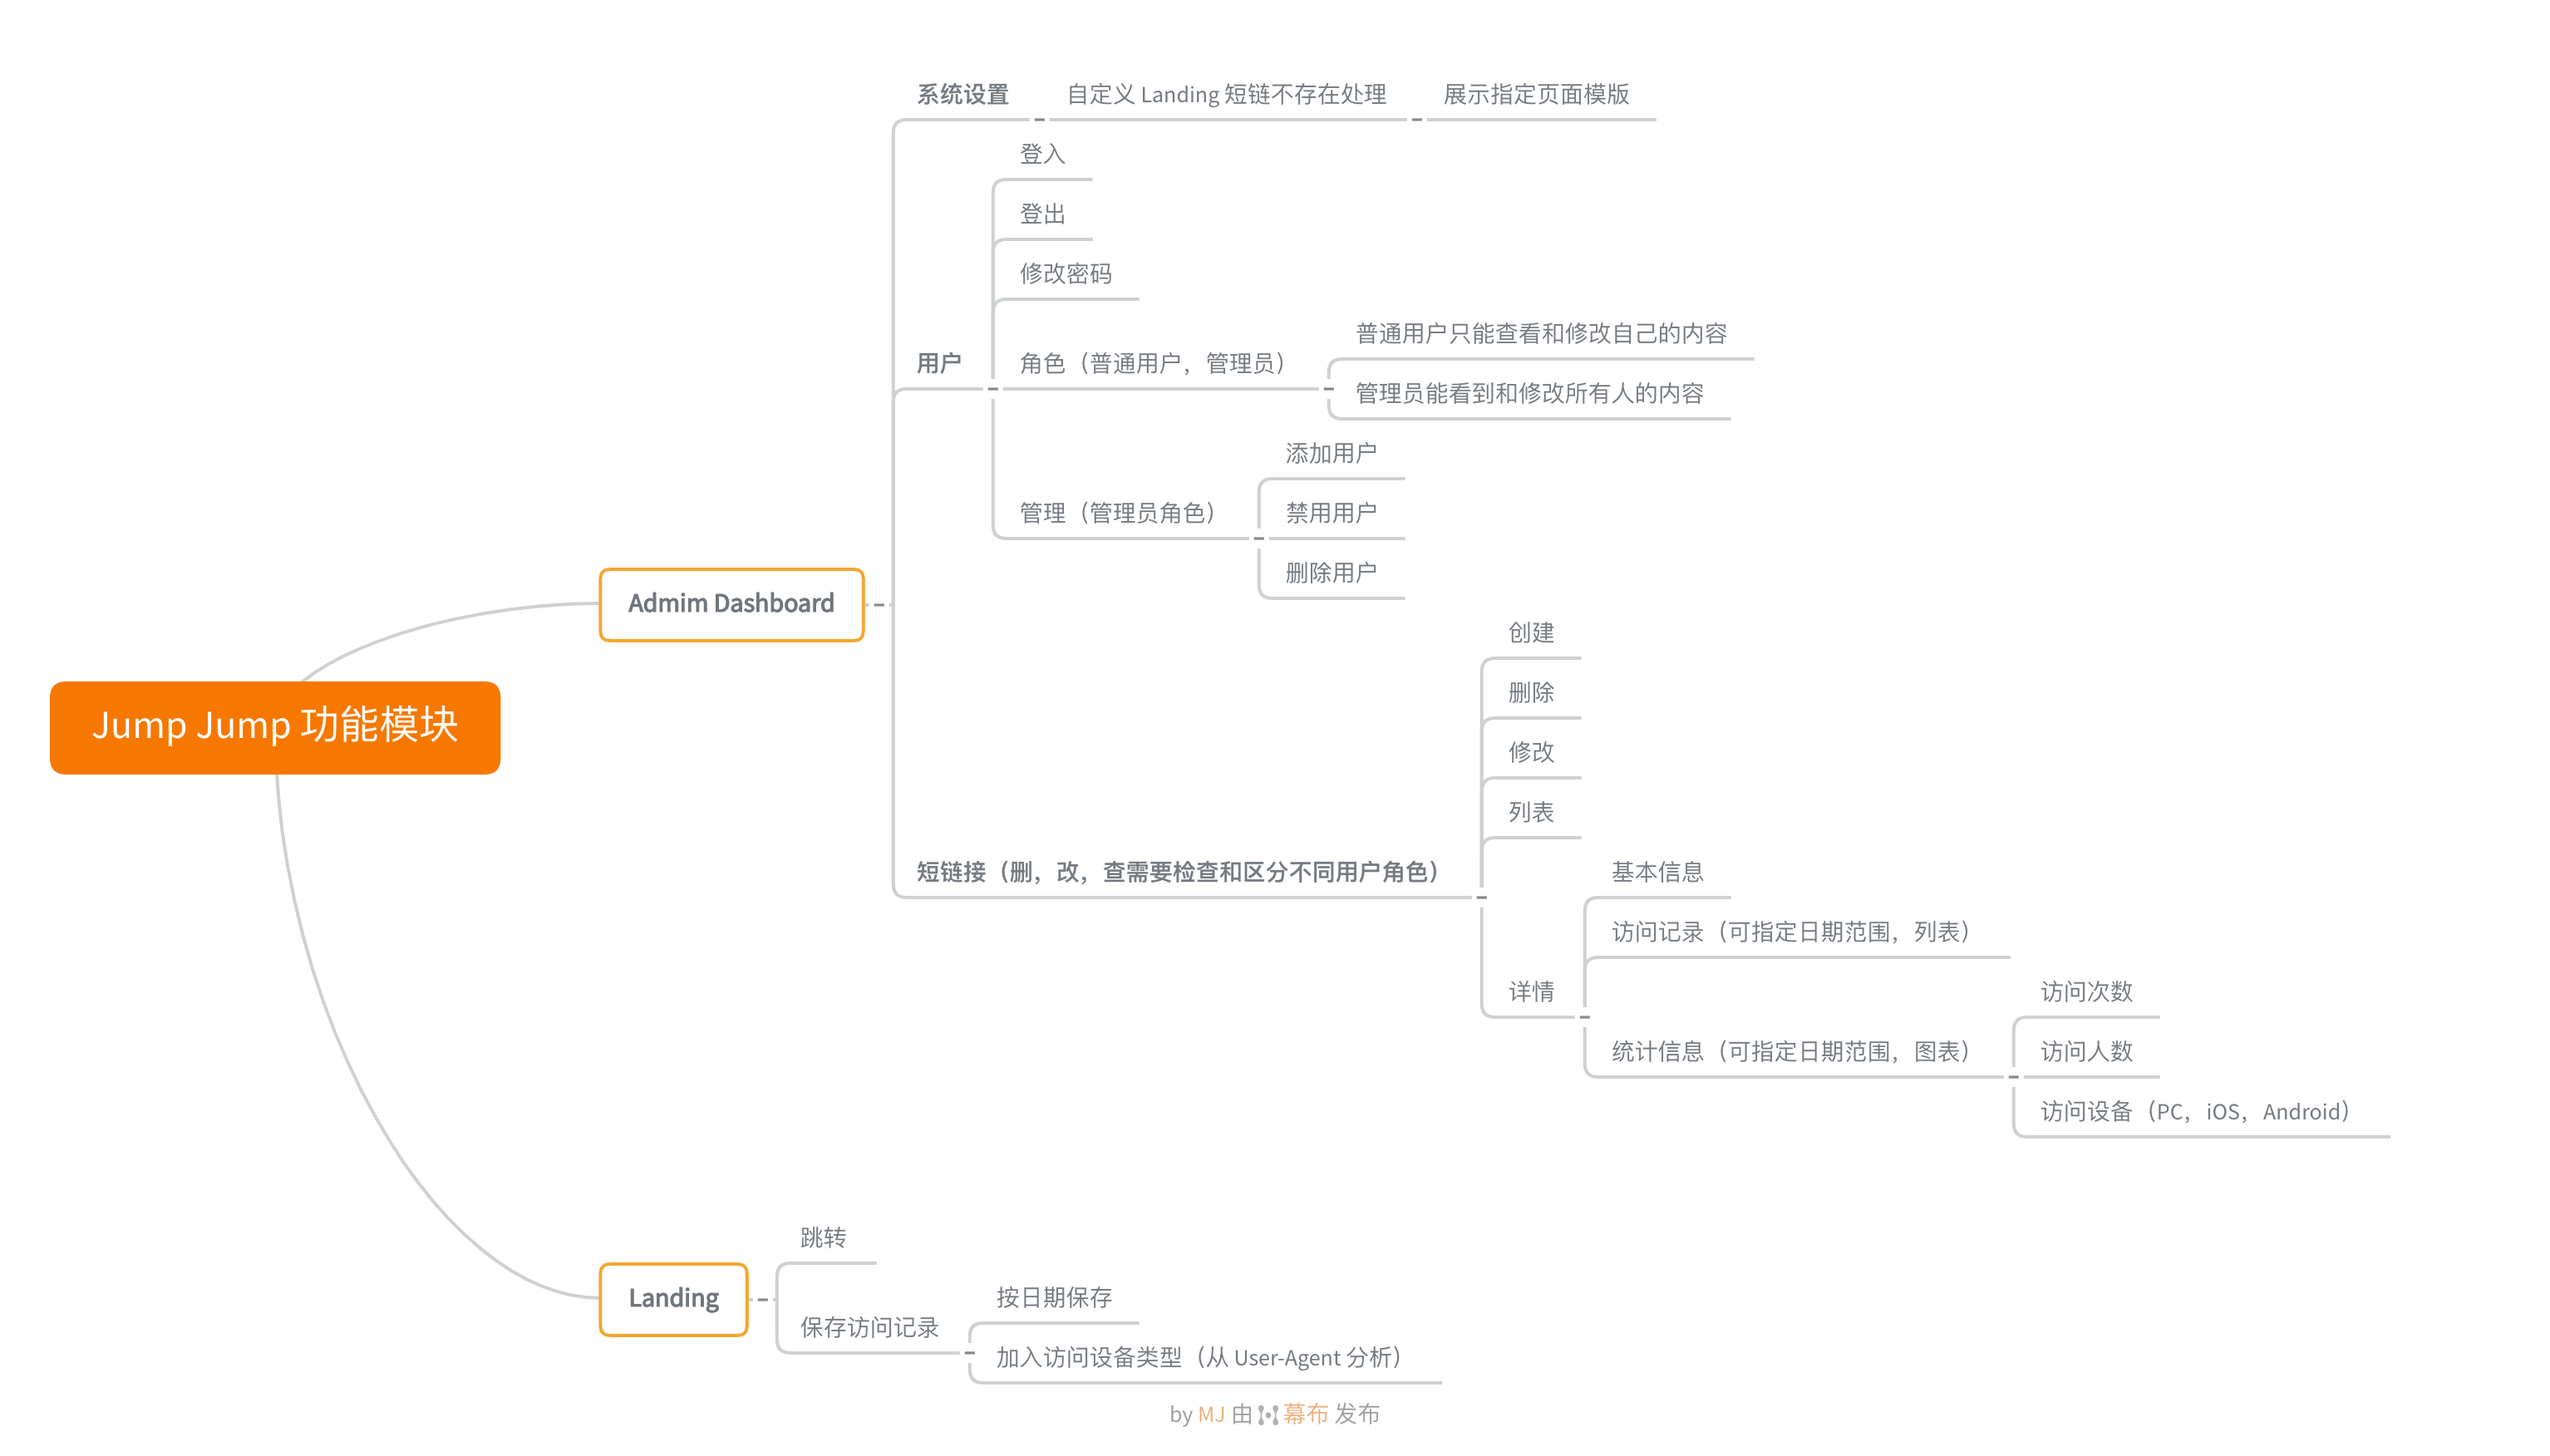
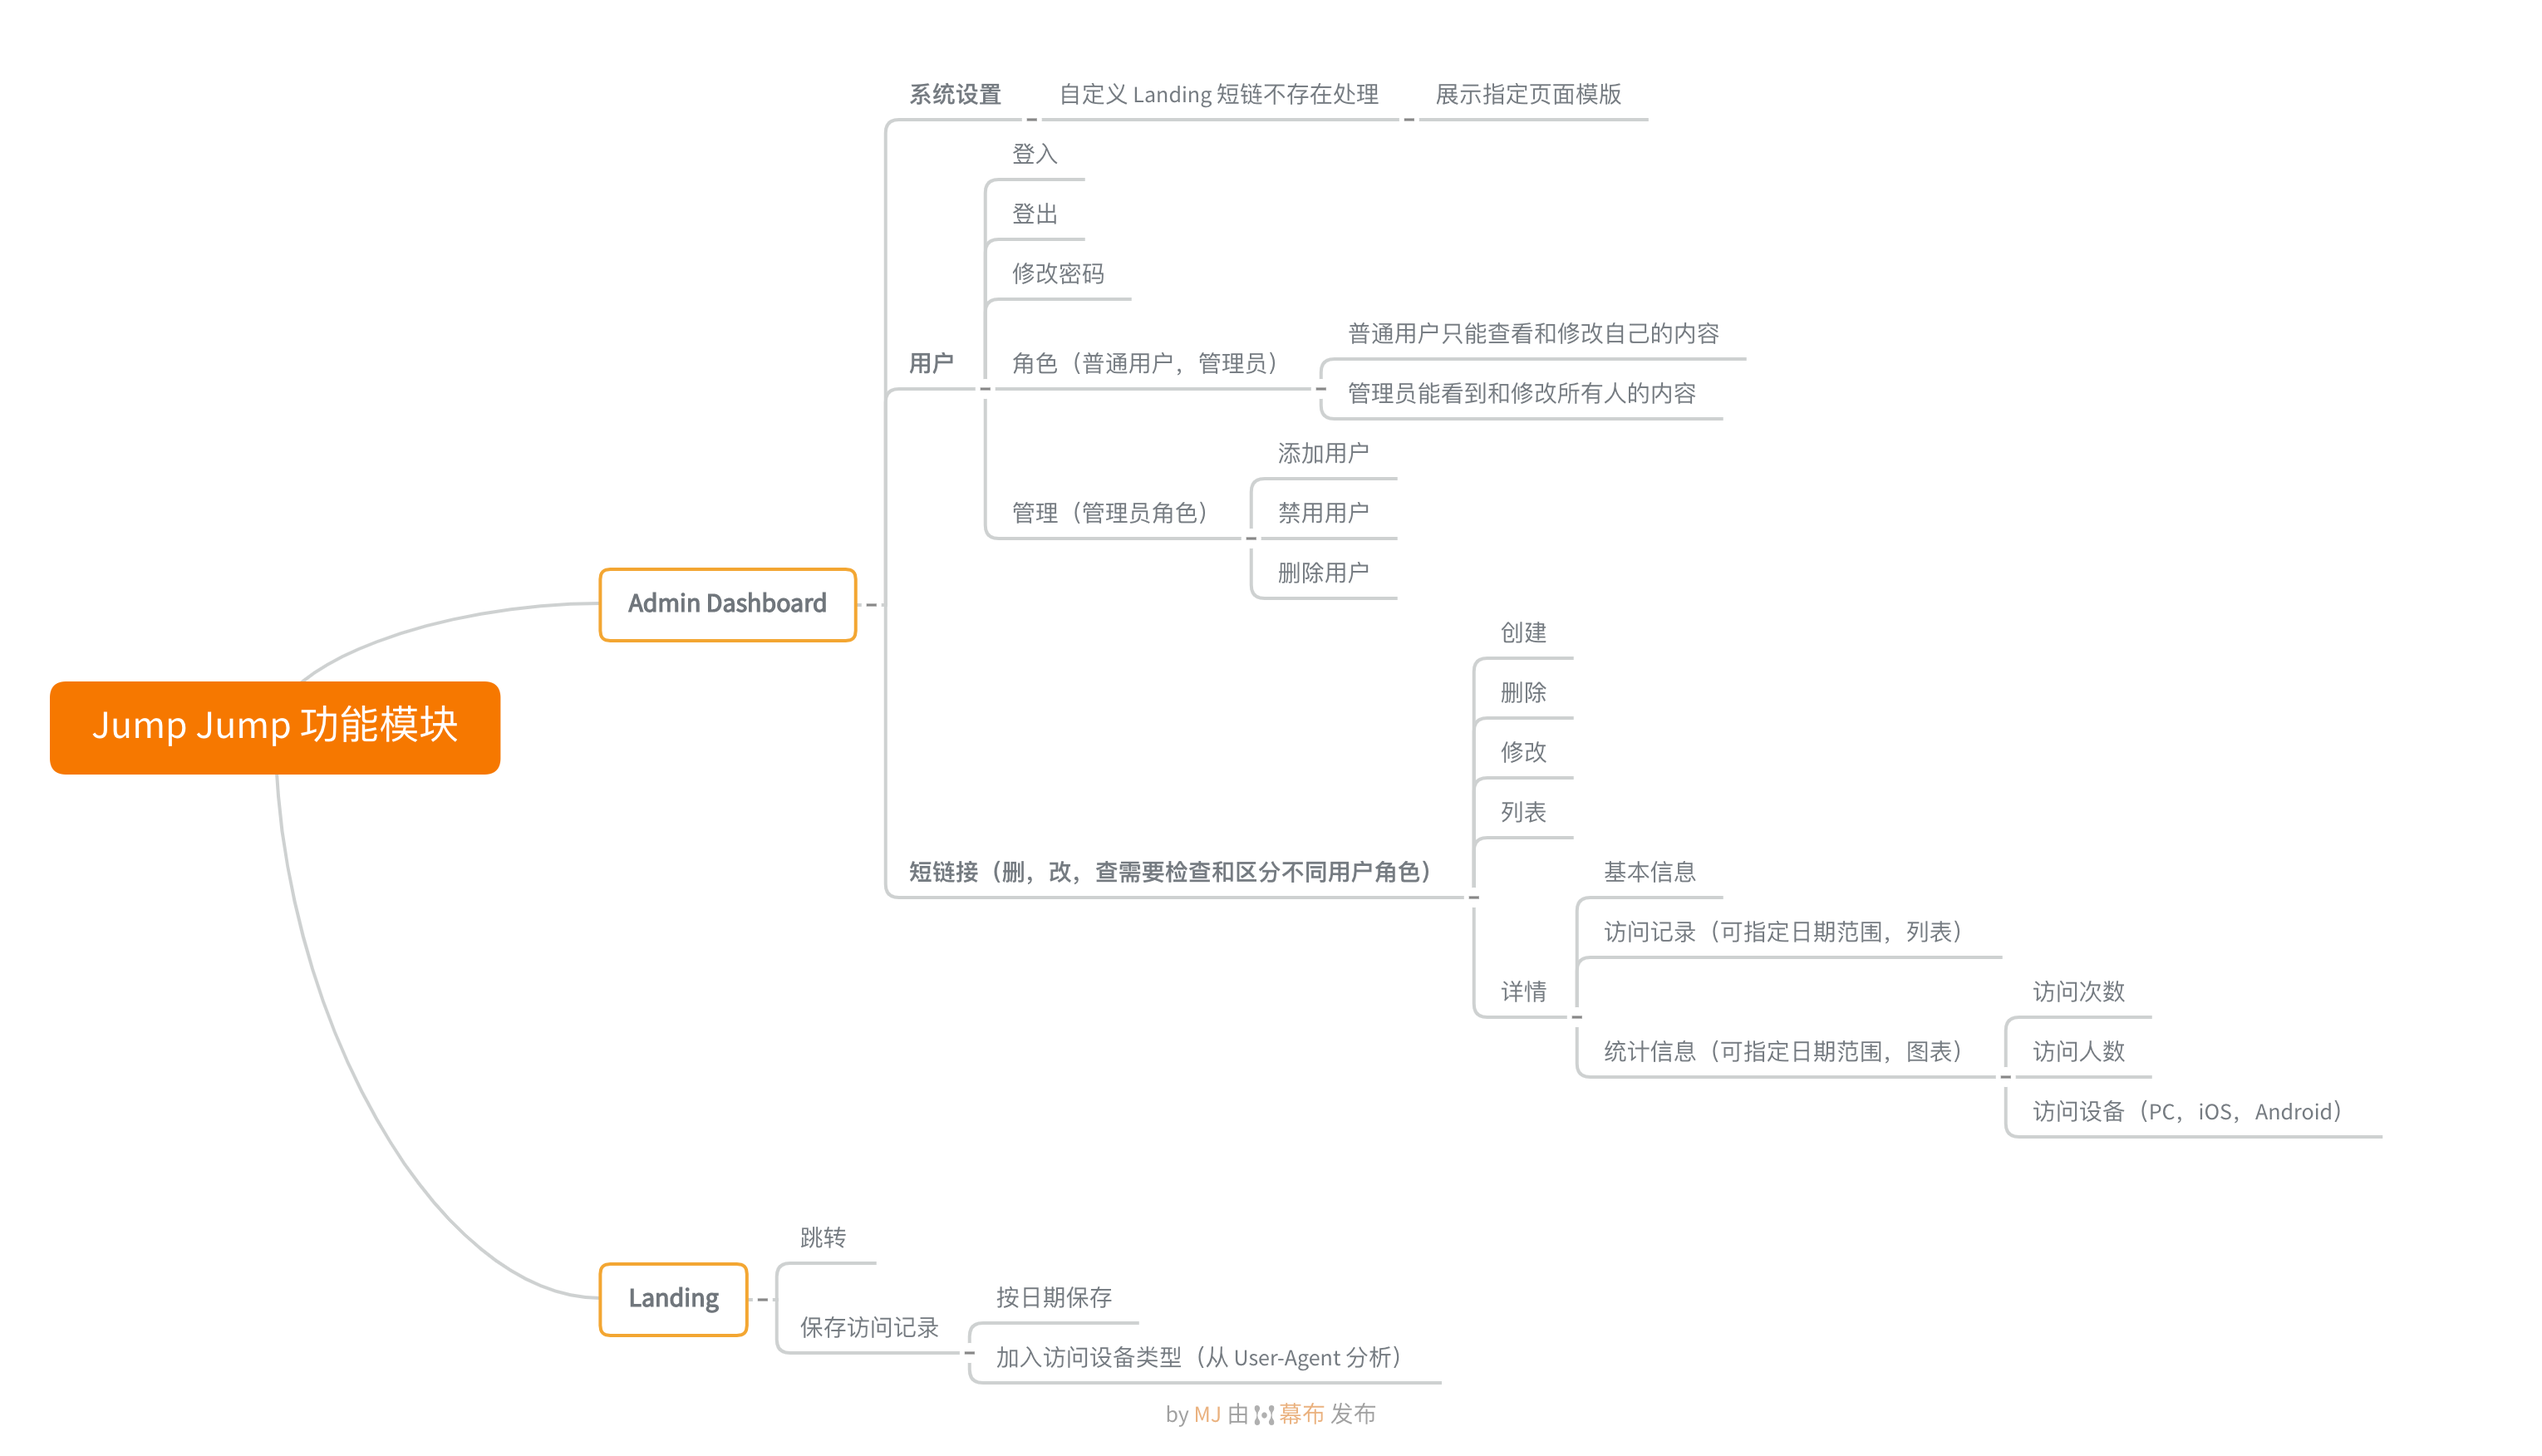
docs(readme): 更新 README
- 修正模块说明图的错字
- 增加公众号二维码

diff --git a/README.md b/README.md
@@ -7,3 +7,6 @@ Jump Jump
 v2 版本正在重构中，重构完成后，将会支持如下的功能：
 
 ![Jump Jump 功能模块](j2module.png?raw=true "Jump Jump 功能模块")
+
+## 关注我的公众号了解更多
+![qr code](qrcode.png?raw=true "qr code")
